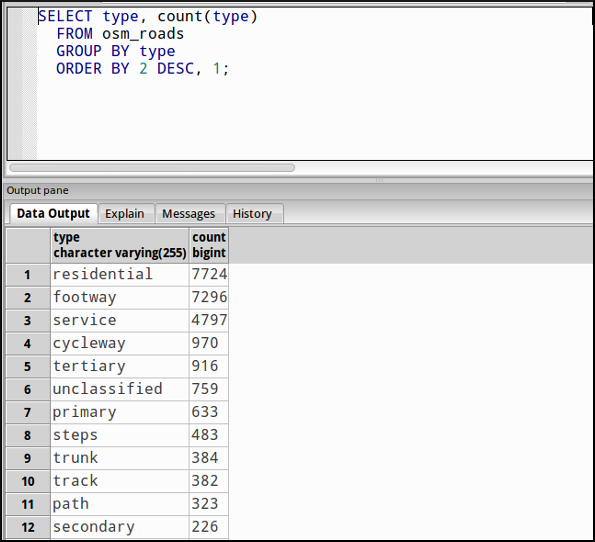
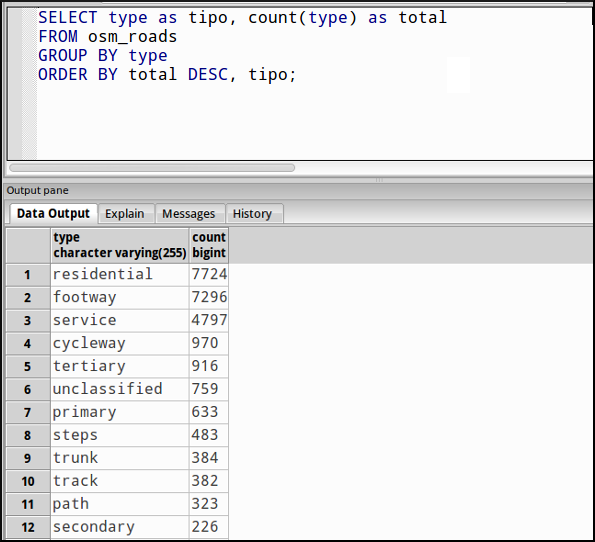
Fixed #18

Changed region(s): [[0.0303, 0.0, 0.7563, 0.1476], [0.4235, 0.1181, 0.484, 0.1476]]

diff --git a/source/tilemill/tilemill_taller.rst b/source/tilemill/tilemill_taller.rst
@@ -380,7 +380,7 @@ Para obtener todos los distintos tipos de vía podemos usar emplearemos
 
 .. code-block:: sql
 
-    SELECT type, count(type) FROM osm_roads GROUP BY type ORDER BY 2 DESC, 1;
+    SELECT type as tipo, count(type) as total FROM osm_roads GROUP BY type ORDER BY total DESC, tipo;
 
 .. image:: ../img/tilemillsqllineales.png
     :width: 500 px
@@ -398,7 +398,7 @@ Añadiremos una entrada para cada tipo de vía.
 * primary
 * steps
 
-Para representarlo usaremos el código siguiente:
+Para representarlo usaremos el código como el siguiente:
 
 .. code-block:: css
 
@@ -434,13 +434,11 @@ Añadiremos ahora los edificios, que están en la tabla `osm_buildings`.
       polygon-fill:#d86ebb;
     }
 
-Orden de las capas
-``````````````````````````````
-
-El orden de renderizado de las capas es el orden en el que aparecen en el
-gestor de capas |btnmenucapas|, para cambiar el orden basta pulsar en el
-indicador del tipo de capa (puntos, líneas y áreas) que hay junto al nombre
-y arrastrar hacia arriba o hacia abajo la capa.
+.. important:: El **orden de renderizado** de las capas es el
+   orden en el que aparecen en el gestor de capas |btnmenucapas|, para
+   cambiar el orden basta pulsar en el indicador del tipo de capa (puntos,
+   líneas y áreas) que hay junto al nombre y arrastrar hacia arriba o hacia
+   abajo la capa.
 
 Añadiendo etiquetas
 ``````````````````````````````
